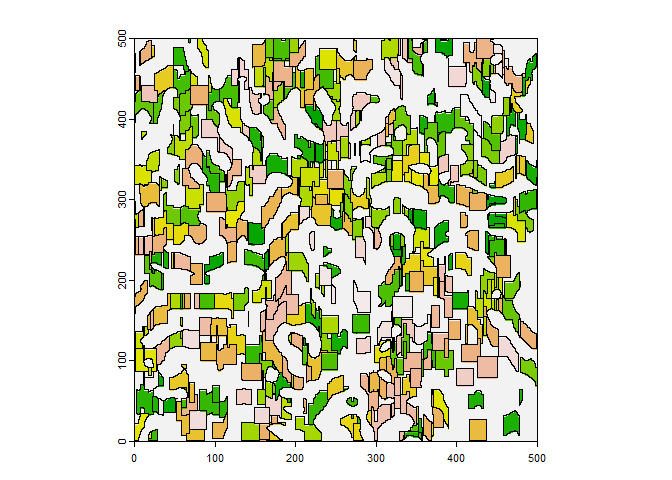
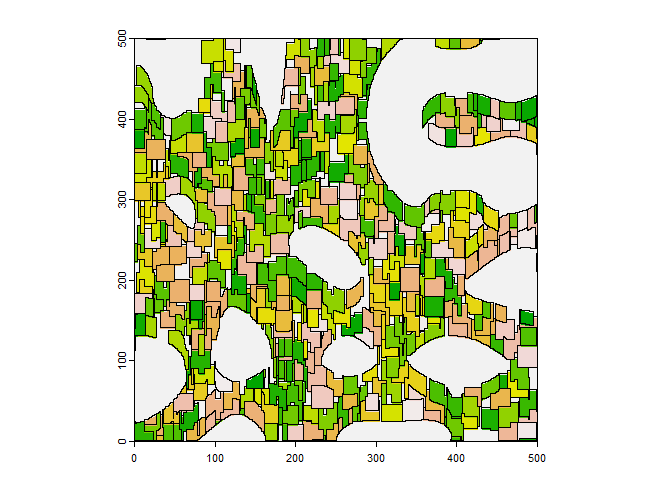
updated readme

diff --git a/README.md b/README.md
@@ -32,20 +32,20 @@ This is a basic example which shows you how to solve a common problem:
 ``` r
 library(ALGR)
 ## basic example code
-r<-generate_pn(500,500,1,2,3,0.01,TRUE, "land_percentage", percetange = 70)
+r<-generate_pn(500,500,1,1,3,0.005,TRUE, "land_percentage", percetange = 70)
 output<-establish_pac(potential_space= r,
-                         cell_size=1,
-                         includsion_value = 1,
-                         mean_field_size = 500,
-                         sd_field_size = 100,
-                         distribution = "norm",
-                         mean_shape_index = 1,
-                         sd_shape_index = 0.3,
-                         percent = 70,
-                         assign_farmers = TRUE,
-                         assign_mode = 2,
-                         mean_fields_per_farm = 3,
-                         sd_fields_per_farm = 3)
+                      cell_size=1,
+                      includsion_value = 1,
+                      mean_field_size = 500,
+                      sd_field_size = 100,
+                      distribution = "norm",
+                      mean_shape_index = 1,
+                      sd_shape_index = 0.3,
+                      percent = 90,
+                      assign_farmers = TRUE,
+                      assign_mode = 2,
+                      mean_fields_per_farm = 3,
+                      sd_fields_per_farm = 3)
 
 
 return_by_field(output, method = 1)
